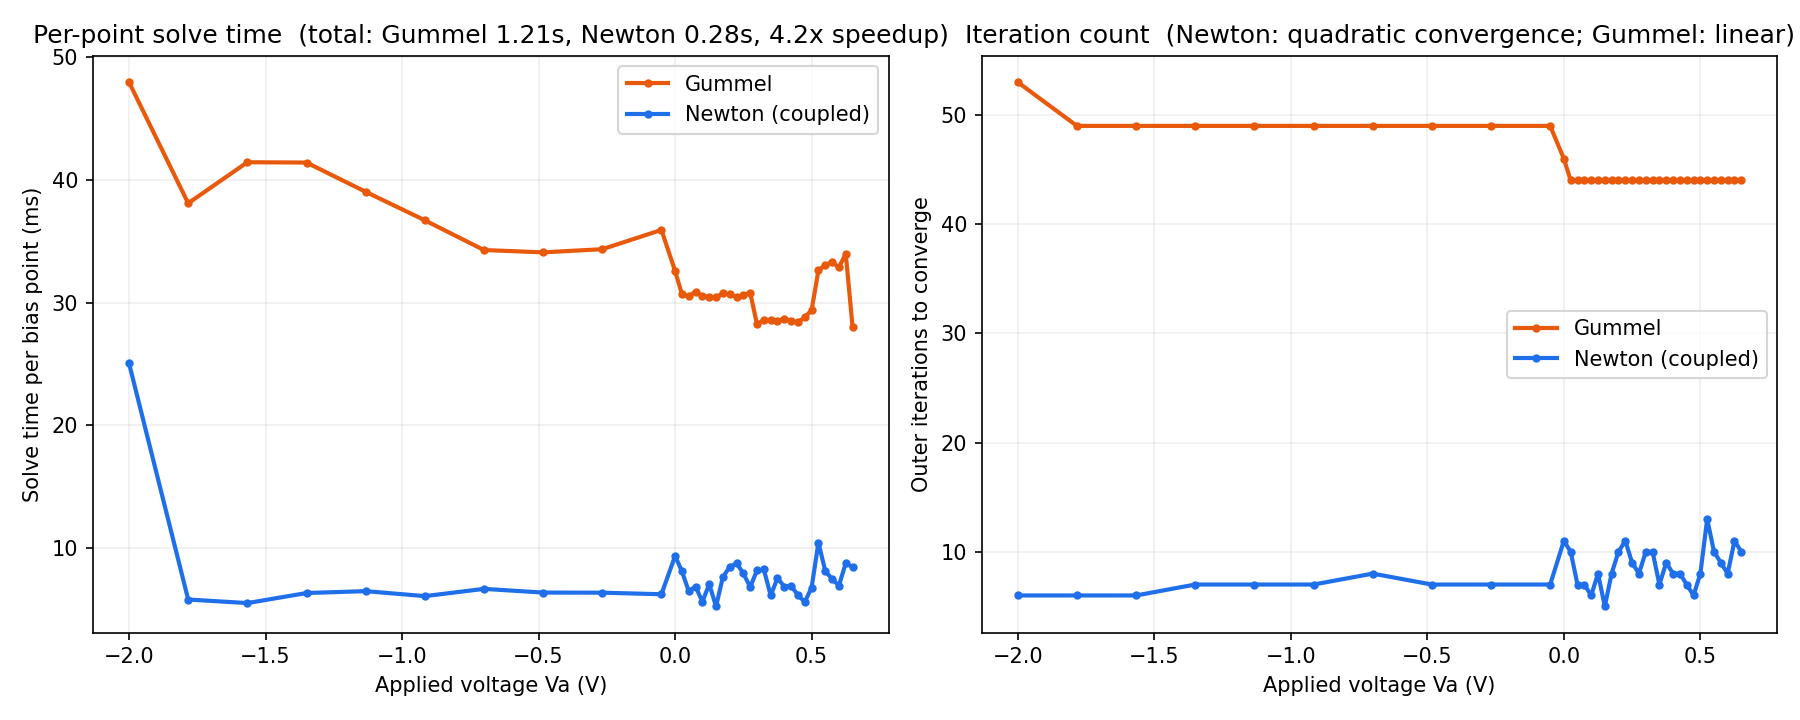
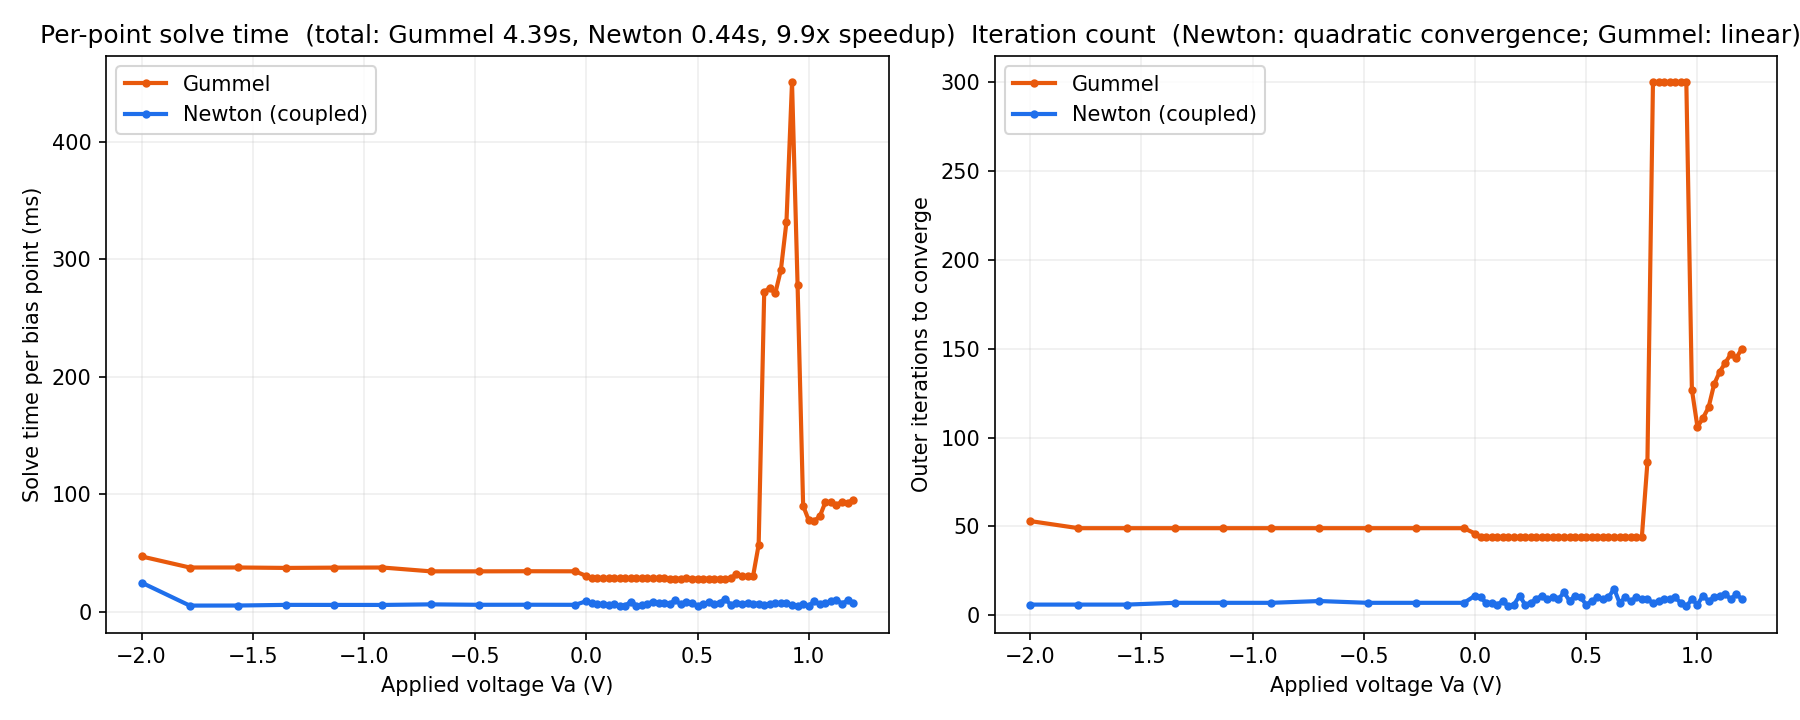
Extend voltage sweep to 1.2V (high injection): Gummel vs Newton stress test
Pushed input.yaml's forward_stop_V to 1.2V, well past the built-in
potential, to stress-test the Gummel-vs-Newton comparison outside the
well-behaved low-to-mid-bias range. Gummel hits its 300-iteration cap
without fully converging in the 0.80-0.95V band (self-consistency degrades
to 0.5-7.2%), while Newton converges cleanly in 7-10 iterations with
near-machine-precision self-consistency throughout. Overall speedup grows
to 9.9x (from 4.25x over the milder 0.65V sweep). Added
out/gummel_vs_newton_comparison.csv with the full point-by-point diff.

diff --git a/DEVELOPMENT_LOG.md b/DEVELOPMENT_LOG.md
@@ -410,3 +410,48 @@ performance bug in an otherwise-correct implementation, then two
 robustness gaps in the surrounding sweep logic) - and each was found by
 building a small, targeted check (which mesh edge, which Jacobian entry,
 which residual node) rather than by tuning parameters and hoping.
+
+### 8.3 Stress-testing the comparison: forward bias up to 1.2 V (high injection)
+
+`input.yaml`'s `voltage_sweep.forward_stop_V` was pushed from 0.65 V to
+1.2 V - well past the built-in potential (0.7738 V) and into a regime the
+model isn't really designed for (the ohmic contacts are pinned to their
+equilibrium majority-carrier concentration with no series resistance, so
+there's nothing in the physics to stop the exponential once the junction
+approaches flat-band other than the numerics themselves), specifically to
+put real stress on the Gummel-vs-Newton comparison rather than only testing
+it in the well-behaved low-to-mid-bias range.
+
+The result was the clearest evidence yet for the coupled Newton solver:
+in the 0.80-0.95 V band, **Gummel iteration hit its 300-iteration cap
+without fully converging** (self-consistency, the J_std/J_mean spread
+across interior mesh edges that should be ~0 in true steady state, degraded
+to 0.5-7.2% there - visibly worse than the <0.01% it achieves everywhere
+else), while **Newton converged cleanly in 7-10 iterations with
+self-consistency at essentially machine precision (0.0000%) throughout the
+same band**. Total sweep time: Gummel 4.39 s, Newton 0.44 s - a 9.9x
+speedup (up from ~4.25x over the milder 0.65 V sweep in section 8.2),
+because Gummel's iteration count itself roughly doubled in the hard region
+(up to ~90 iterations/point average, spiking to the 300 cap) while
+Newton's stayed flat at 5-15 iterations throughout the entire sweep,
+reverse bias included. See `out/05_solver_benchmark.png` for the iteration
+count and per-point solve time visibly spiking for Gummel and staying flat
+for Newton, and `out/gummel_vs_newton_comparison.csv` for the full
+point-by-point comparison (current, iteration count, solve time, and
+self-consistency for both solvers side by side).
+
+Where Gummel didn't fully converge, its current disagreed with Newton's by
+up to ~1.6% (e.g. 0.039359 A vs 0.038830 A at 0.85 V) - given Newton's
+self-consistency is essentially exact there and Gummel's is not, Newton's
+answer is the more trustworthy one in that band, not just the faster one.
+
+Physically, the sweep also shows why the Shockley ideal-diode law is only
+a low-injection approximation: the numeric current visibly saturates
+above ~0.8 V (reaching only ~0.21 A at 1.2 V) as the finite doping and
+lack of series resistance in this model limit how much current the
+junction can actually pass, while the naive exponential extrapolation of
+the ideal diode law diverges to a physically absurd ~3e6 A at 1.2 V (see
+`out/03_iv_curve.png`) - and the extracted ideality factor climbs well
+past n=2, up to about 12 at 1.2 V (`out/04_ideality_factor.png`), which is
+the expected signature of high-level injection rather than a numerical
+artifact.
